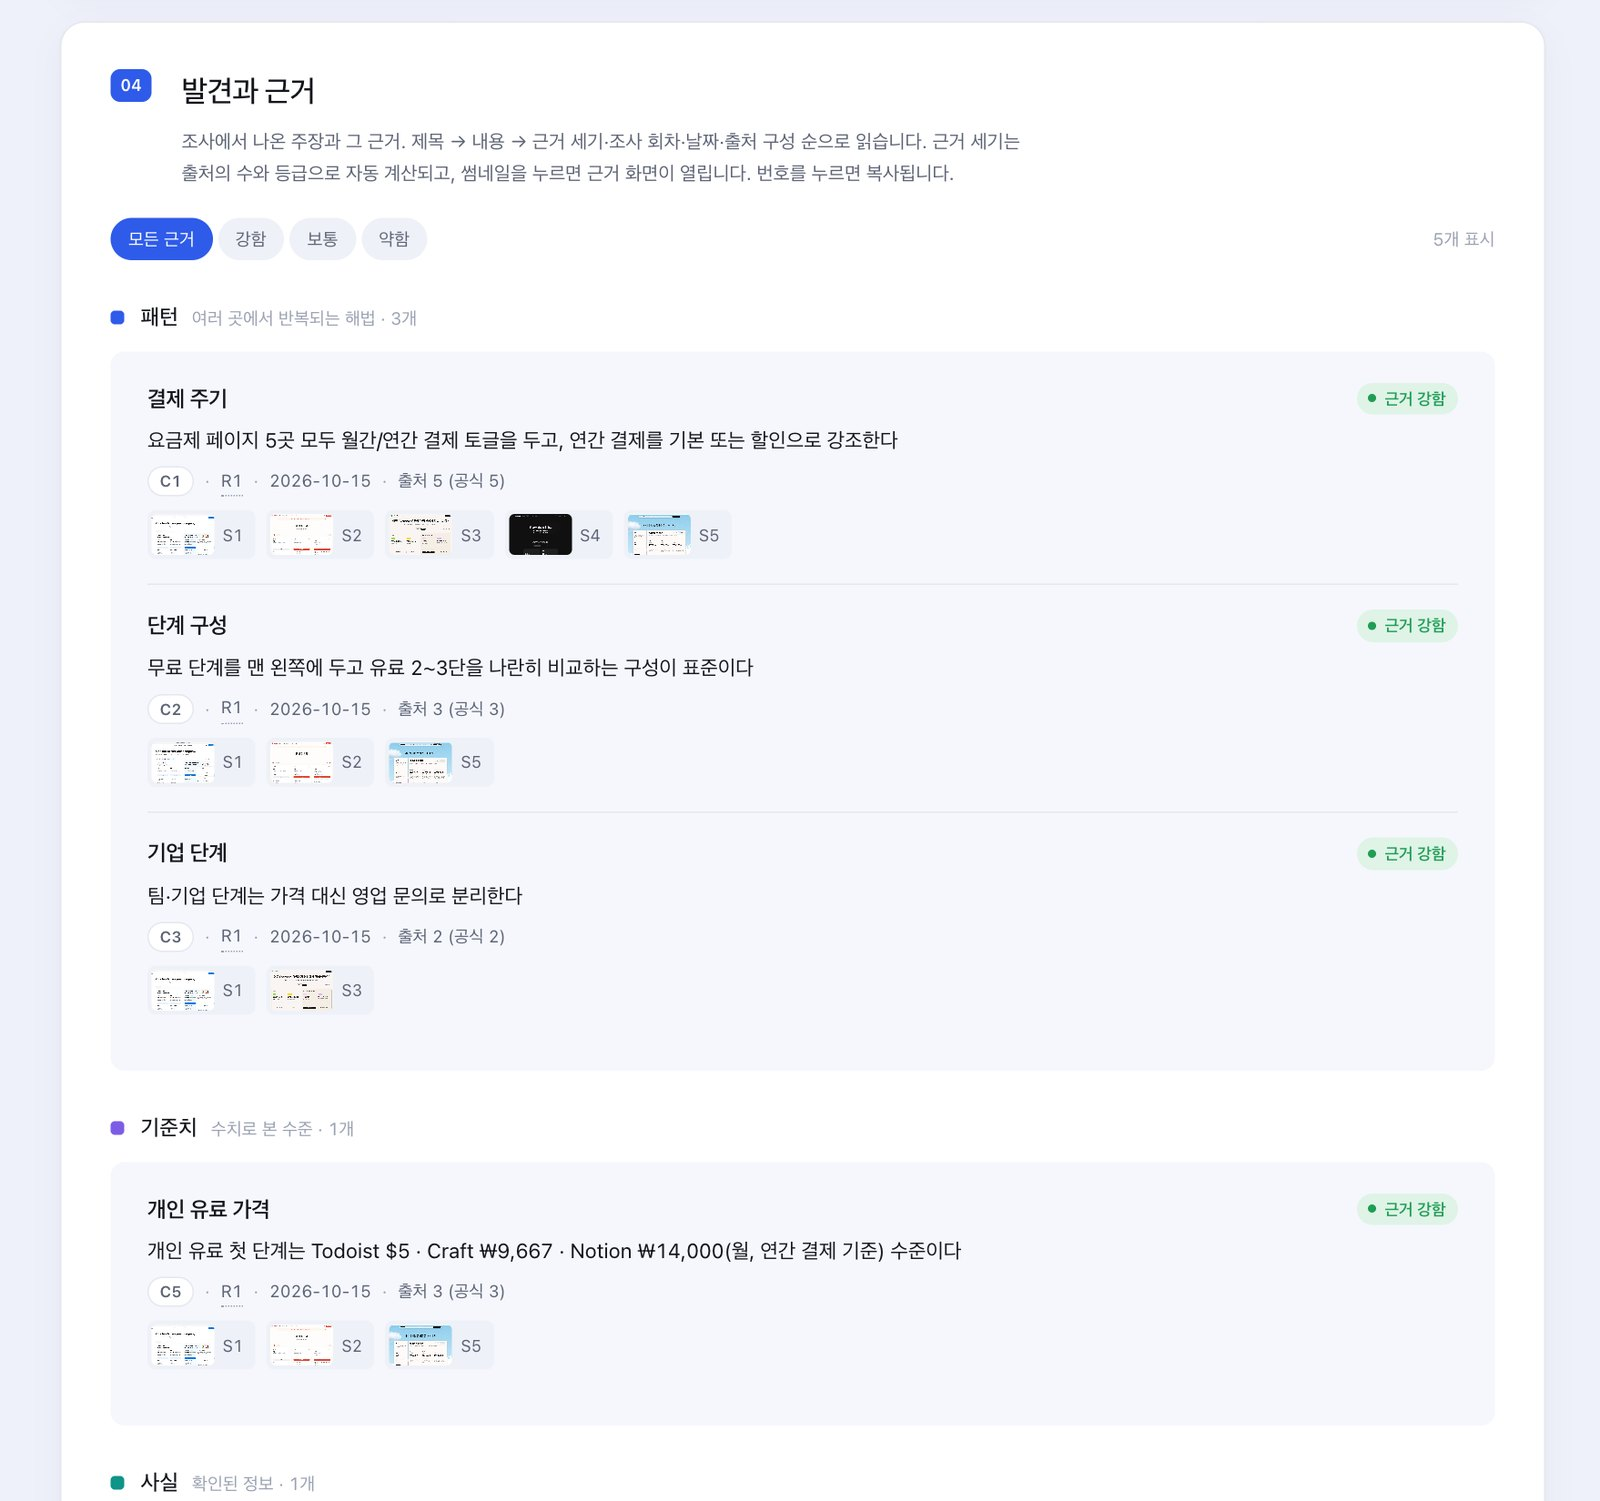
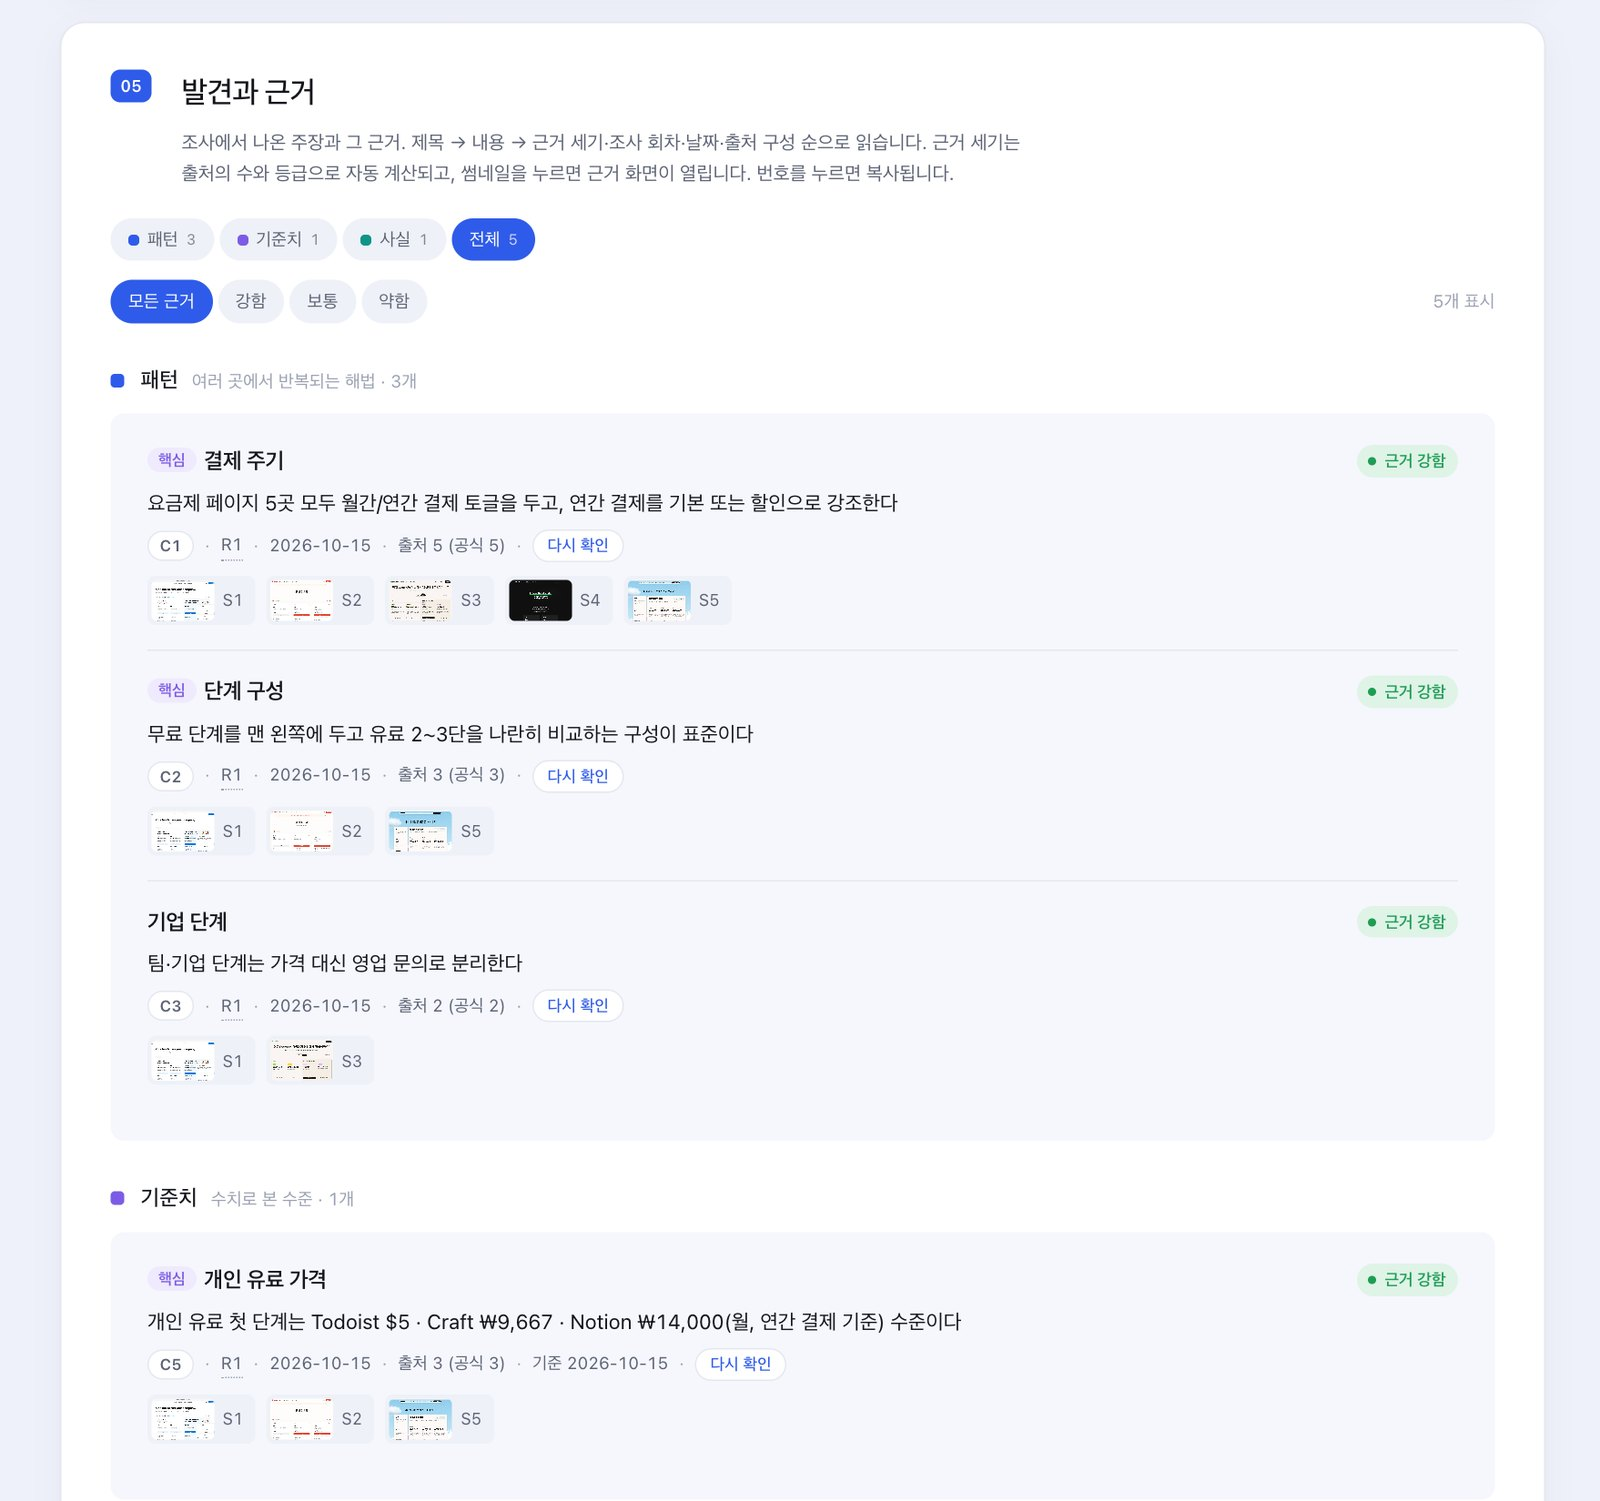
Board phase 2: key takeaways, open questions, prompt copy, finding tabs, viewer claims tab
Data (all optional, old libraries unchanged):
- run start stores goal/audience/question on the collection (first run's goal
  becomes the category goal); report accepts goal, audience, question,
  highlights[C#], open_questions, next_steps and stores them too.
- claim add: subject warning when missing; key / asOf (real date) / scope
  saved; {"update":"C#", subject|key|asOf|scope} edits metadata in place.
- SUMMARY.md heading contract (목표 · 이번 실행에서 바뀐 것 · 핵심 발견 ·
  공통 vs 차별 · 추천 · 열린 질문) parsed by splitSummary().

Board:
- 핵심 결론 section under the hero: highlights → key claims → summary 핵심
  발견 → strongest claims; 열린 질문 / 다음 할 일 beside it with an
  "이 조사 이어서 하기" prompt-copy button.
- Each finding gets a "다시 확인" prompt-copy button, ★ 핵심 badge and
  기준 date; finding kinds become tabs (largest first, 전체 available).
- Viewer side panel: 분석 노트 / 이 화면을 근거로 쓴 발견 tabs.
- Shared .cmeta rule; open-question lists limited to 5 with 더 보기.

Docs: SKILL §6–7 rules (subject always, key 2–4, asOf, summary headings,
report header params), CHANGELOG, ROADMAP, BOARD-REDESIGN §7, README tour
(+ tour-key shot; demo uses the new fields).

Largest real board: 29,300px → 23,000px first load (scratch copy).

diff --git a/skills/reference-research/SKILL.md b/skills/reference-research/SKILL.md
@@ -61,7 +61,8 @@ ref() { "$HOME/.reference-research/plugin/scripts/ref" "$@"; }
 ### JSON params
 ```jsonc
 // run start — domain: design | dev | research ("related": false skips the embedding search)
-{"collection":"…","goal":"which decision this run supports","domain":"design","kind":"category","description":"…"}
+// goal/audience/question also land on the category (board header: 목적 · 대상). The first run's goal becomes the category goal.
+{"collection":"…","goal":"which decision this run supports","audience":"who the result is for","question":"one-line question","domain":"design","kind":"category","description":"…"}
 
 // capture (≤ 6 URLs per call; each new capture ~10–40 s; Bash timeout 600000)
 {"collection":"…","urls":[{"url":"https://…","label":"Warp — landing","tags":["landing","direct","vertical-tabs"]},
@@ -81,14 +82,18 @@ ref() { "$HOME/.reference-research/plugin/scripts/ref" "$@"; }
 {"collection":"…","ref":"S12","note":"markdown…","tags":["limit-gauge-pace"]}
 
 // claim add — kind: fact|pattern|benchmark|failure|gap|opinion|hypothesis
+// subject = 5–12 char title the board shows (always give one) · key = headline finding (board 핵심 결론) · asOf = date a price/number was true · scope = where it applies
 {"collection":"…","claims":[
-  {"text":"…","kind":"pattern","subject":"Warp","sources":["S2","S9"],"tags":["vertical-tabs"]},
+  {"text":"…","kind":"pattern","subject":"세로 탭 상태","sources":["S2","S9"],"tags":["vertical-tabs"]},
+  {"text":"개인 유료 첫 단계 월 5–14천원","kind":"benchmark","subject":"개인 유료 가격","asOf":"2026-10-15","key":true,"sources":["S1","S2"]},
+  {"update":"C7","subject":"기업 단계","key":true},
   {"confirms":"C3","sources":["S12"]},
   {"revises":"C4","text":"corrected finding","kind":"fact","sources":["S13"]},
   {"refutes":"C5","text":"what is actually true","kind":"fact","sources":["S14"]}]}
 
-// report
-{"collection":"…","summary_file":"/path/to/summary.md","open":false}
+// report — header fields are optional and stored on the category; without them the board reads the summary's 핵심 발견 / 열린 질문 / 추천 sections
+{"collection":"…","summary_file":"/path/to/summary.md","open":false,
+ "highlights":["C12","C3","C8"],"open_questions":["…"],"next_steps":["…"],"audience":"…"}
 ```
 Tag vocabulary: screen tags `landing, features, pricing, app-ui, onboarding, help, store` (coverage) · role `direct, indirect, analogous` (per category) · anything else = **pattern tag** (kebab-case). Before inventing a tag, `ref axes show` and reuse a tag already on the right axis.
 
@@ -149,14 +154,15 @@ For a REUSED ref, add only what is new for this category's angle. Only state wha
 ## 6. Claims and deltas
 Turn every finding you would put in a summary into a claim, written **from the images/pages you looked at in this session** (not from memory of older notes):
 - `pattern` · `benchmark` (price, rating, count, speed) · `failure` (complaints, shutdowns, pitfalls) · `gap` (nobody does it — needs a query aimed at it first) · `fact` · `opinion` · `hypothesis` (no source)
+- **always a `subject`** (5–12 chars — the board's title line; `claim add` warns without one) · `asOf` on every price/number · `key:true` on the 2–4 findings a reader must not miss (`{"update":"C#","key":true}` for existing ones)
 - cite every supporting ref; prefer ≥2 independent publishers
 - baseline claim seen again → `confirms`; partly wrong → `revises`; wrong → `refutes`
 **Normalize tags** whenever `note`/`capture` warns "tags not on any axis": `ref axes suggest <collection>` proposes mutual-nearest pairs and nearest axes from tag names only — expect surface matches (scroll-storytelling ~ scrollback-context). Judge against the notes (same *solution*, not same words), then `ref axes set` (add to an existing axis, or create one with a Korean label + one-line description). An axis may span categories — that is the point (AI 한도 게이지 ≈ 가계부 예산 게이지).
 Then `ref delta <collection>`: A tells what this run changed, C what is common / partly shared / one-product **by axis** and which axes other categories share, T what changed on re-captured refs and what is stale. `ref categories` shows shared refs and shared axes between categories.
 
 ## 7. Report, learnings, commit
-- Summary markdown (scratch file): 목표 · 대상 제품 · **이번 실행에서 바뀐 것** (delta A + T) · 핵심 발견 · **공통 vs 차별** (delta C, by axis) · **다른 카테고리와 공유하는 축** · 추천 방향 · 열린 질문. Every finding line ends with `[C#]`/`[S#]`; inferences say 추정/가설.
-- `ref cite <collection> --file <summary>` → fix every ⚠ → `ref report` with `summary_file`. The summary is rendered as markdown (tables, lists, `[C#]` chips) — write it for a human reader: short sections, tables for product lists.
+- Summary markdown (scratch file) with **these `##` headings, in this order** (the board reads them): `## 목표` · `## 이번 실행에서 바뀐 것` (delta A + T) · `## 핵심 발견` (3–5 bullets, each ending in `[C#]`) · `## 공통 vs 차별` (delta C, by axis; include 다른 카테고리와 공유하는 축) · `## 추천` · `## 열린 질문` (bullets). Every finding line ends with `[C#]`/`[S#]`; inferences say 추정/가설.
+- `ref cite <collection> --file <summary>` → fix every ⚠ → `ref report` with `summary_file`, plus `highlights` (the C# of 핵심 발견, or rely on `key:true`), `open_questions`, `next_steps`. The board shows them as 핵심 결론 / 열린 질문 under the header; the summary is rendered as markdown (tables, lists, `[C#]` chips) — write it for a human reader: short sections, tables for product lists.
 - `ref learn add` for each reusable, verified lesson.
 - **Commit**: `git -C ~/references add -A && git -C ~/references commit -m "<collection>: <run goal>"` (end the message with the session's attribution line). Do not push unless the user asks. If the library is not a git repo, skip and suggest `ref setup --git`. **Never push the library anywhere** unless the user asks — it holds captures of third-party pages.
 - Final answer: summary, board path (`open ~/references/<collection>/index.html`; library home `open ~/references/index.html`), query count (KR/EN) + longlist size, refs NEW / REUSED / REFRESHED, categories added to existing refs, claims (by confidence) + what changed vs. baseline, coverage gaps, failures, next captures.

diff --git a/CHANGELOG.md b/CHANGELOG.md
@@ -1,7 +1,17 @@
 # Changelog
 
 ## Unreleased
-보드 가독성 개편 1단계 (`docs/BOARD-REDESIGN.md`). 데이터 구조 변경 없음 — `ref report`만 다시 실행하면 됩니다.
+보드 가독성 개편 1·2단계 (`docs/BOARD-REDESIGN.md`). 기존 라이브러리는 그대로 두고 `ref report`만 다시 실행하면 됩니다. 새 필드는 모두 선택이며 없으면 이전처럼 동작합니다.
+
+2단계 — 결론을 맨 위로, Claude에게 넘기기
+- **핵심 결론** 섹션: `ref report`의 `highlights:[C#]` → `key:true` 발견 → 요약의 `## 핵심 발견` 목록 → 근거가 강한 발견 자동 순으로 3개. 옆에 **열린 질문 · 다음 할 일**(`open_questions` · `next_steps` 또는 요약의 `## 열린 질문` · `## 추천`)과 "이 조사 이어서 하기" 프롬프트 복사 버튼.
+- 발견마다 **"다시 확인" 프롬프트 복사**(컬렉션·번호·제목·출처 포함). 발견 섹션은 **종류별 탭**(가장 많은 종류가 먼저, "전체" 선택 가능).
+- 뷰어 정보 패널에 **"이 화면을 근거로 쓴 발견"** 탭.
+- `claim add`: `subject` 없으면 경고, `key`(핵심) · `asOf`(수치 기준일) · `scope` 저장, `{"update":"C#", …}`로 기존 발견의 제목·핵심 표시 수정. 보드는 `★ 핵심` 배지와 `기준 YYYY-MM-DD`를 표시.
+- `run start`의 `goal`/`audience`/`question`이 카테고리(`collection.json`)에 저장되어 보드 머리글이 됩니다(첫 조사의 goal이 카테고리 goal).
+- 요약 규약: `## 목표 · 이번 실행에서 바뀐 것 · 핵심 발견 · 공통 vs 차별 · 추천 · 열린 질문` 제목을 보드가 인식합니다(SKILL §7).
+
+1단계 — 길이와 위계
 - 첫 화면에 **조사 목적** 블록(컬렉션 goal → 마지막 조사 회차의 goal → 요약의 "목표" 순으로 찾음)과 같은 레퍼런스를 쓰는 다른 조사 링크. 통계 문장은 숫자 타일 5개로.
 - 발견 카드를 **제목 / 내용 / 메타** 3단으로: 제목이 없으면 첫 구절·첫 문장으로 만들고, 150자 넘는 내용은 두 줄 + "더 보기". 메타줄에 조사 회차(R#) · 날짜 · 출처 구성(논문 3 · 공식 1). 정정된 발견은 대체한 발견 아래 "이전 버전"으로.
 - 발견·출처 필터: 조사 회차, 근거 세기, 등급, 종류, "인용된 것만"(기본 켬).

diff --git a/README.md b/README.md
@@ -33,6 +33,7 @@
 아래 화면은 데모 조사 "메모·할 일 앱 요금제 페이지 비교"(5개 제품)로 만든 실제 보드입니다.
 
 <p align="center"><img src="assets/tour-overview.jpg" width="860" alt="보드 첫 화면"></p>
+<p align="center"><img src="assets/tour-key.jpg" width="860" alt="핵심 결론과 열린 질문"></p>
 
 | 패턴 비교 — 같은 문제, 제품별 해법 | 발견과 근거 — 근거 세기 자동 계산 |
 |---|---|
@@ -41,8 +42,9 @@
 | <img src="assets/tour-refs.jpg" width="420"> | <img src="assets/tour-viewer.jpg" width="420"> |
 
 - **첫 화면**: 조사 **목적**이 맨 위에, 그 아래 숫자 타일(제품 · 레퍼런스 · 발견과 근거 세기 · 패턴 · 조사 회차)
+- **핵심 결론**: 가장 중요한 발견 3개와 **열린 질문 · 다음 할 일**. "이 조사 이어서 하기"를 누르면 열린 질문이 담긴 프롬프트가 복사됩니다
 - **한눈에 보기**: 조사 요약. 문장 끝 번호(C·S)를 누르면 해당 발견·레퍼런스로 이동
-- **발견 카드**: 제목 → 내용(길면 두 줄 + 더 보기) → 근거 세기 · 조사 회차 · 날짜 · 출처 구성. 번호(C12)를 누르면 복사되어 Claude에게 "C12 다시 확인해줘"라고 바로 말할 수 있습니다
+- **발견 카드**: 제목 → 내용(길면 두 줄 + 더 보기) → 근거 세기 · 조사 회차 · 날짜 · 출처 구성. 종류별 탭으로 봅니다. 번호(C12)를 누르면 복사되고, "다시 확인"을 누르면 Claude에게 붙여 넣을 프롬프트가 복사됩니다
 - **긴 조사도 가볍게**: 캡처는 12개씩, 글로 읽은 자료(논문·기사·문서)는 격자 대신 **자료 목록** 표로, 출처는 인용된 것만 — 모두 "더 보기"로 펼칩니다
 - **검색(`/`)**: 레퍼런스 · 발견 · 패턴을 한 번에 찾기
 - **조사 기록**: 조사할 때마다 새로 생긴 발견, 뒤집힌 발견, 다시 확인된 발견

diff --git a/docs/BOARD-REDESIGN.md b/docs/BOARD-REDESIGN.md
@@ -161,3 +161,16 @@ E4 · E5 · E7 · E8 · E9 · F1 · F2 · F4 · D8 · B4(구조화 버전)
 | ID 복사 | 드래그 | 버튼 1번 + 안내 토스트 |
 
 남은 것: 발견 섹션이 이제 가장 길다(52개 × 약 270px). 2단계 C4(종류별 탭)로 줄인다. 목표였던 15,000px는 C4 이후에 다시 잰다.
+
+## 7. 2단계 결과 (2026-10-15)
+
+구현: E1(goal·audience·question·highlights·openQuestions·nextSteps — `run start`와 `report` 파라미터) · E2(key·asOf·scope + `{"update":"C#"}`) · E3(subject 경고) · E6(요약 제목 규약 파서 `splitSummary`) · A2(핵심 결론 3개: highlights → key → 요약 핵심 발견 → 자동) · A3(열린 질문·다음 할 일, 5개씩) · D2(다시 확인 프롬프트) · D3(이어서 하기 프롬프트) · C4(종류별 탭, 가장 많은 종류가 기본) · G1(뷰어 "이 화면을 근거로 쓴 발견" 탭).
+
+| 지표 | 1단계 후 | 2단계 후 |
+|---|---|---|
+| `acne-skincare-products-kr` 첫 로드 높이 | 29,300px | **23,000px** (발견 14,100 → 7,100 · 핵심 결론 +670) |
+| `ai-agent-terminal-category` | 16,500px | 14,900px |
+| 결론을 보기까지 스크롤 | 요약 안 | 머리글 바로 아래(섹션 01) |
+| Claude에게 넘기는 동작 | ID 복사 | 발견별 "다시 확인" · 조사별 "이어서 하기" 프롬프트 복사 |
+
+기존 라이브러리: 408개 발견 중 `key`는 0개라 모든 보드가 "자동" 결론을 보여 준다. 다음 조사부터 SKILL §6 규칙(subject 필수 · key 2~4개 · asOf)이 적용된다. 남은 큰 섹션은 패턴 비교(5,200px)와 요약(3,100px) — 3단계 F1(research 근거 표)과 B2(요약 접기)에서 다룬다.

diff --git a/dev/demo-summary.md b/dev/demo-summary.md
@@ -1,12 +1,13 @@
-**목표**: 메모·할 일 앱의 무료/유료 구성을 정하기 위해 요금제 페이지 5곳 비교.
+## 목표
+메모·할 일 앱의 무료/유료 구성을 정하기 위해 요금제 페이지 5곳 비교.
 
-**핵심 발견**
+## 핵심 발견
 1. 월간/연간 토글은 기본, 연간 할인을 강조 [C1]
 2. 무료 1단 + 유료 2~3단 나란히 비교가 표준 [C2]
 3. 팀·기업은 "문의"로 분리 [C3]
 4. 대안 모델: 앱은 무료, 동기화·게시만 판매(Obsidian) [C4]
 5. 개인 유료 첫 단계 가격대 [C5]
 
-**추천 방향**
+## 추천
 - 무료 + 개인 유료 1단으로 시작, 팀 단계는 문의형 [C2, C3]
 - 동기화를 유료 기능으로 묶는 안도 검토 [C4]
